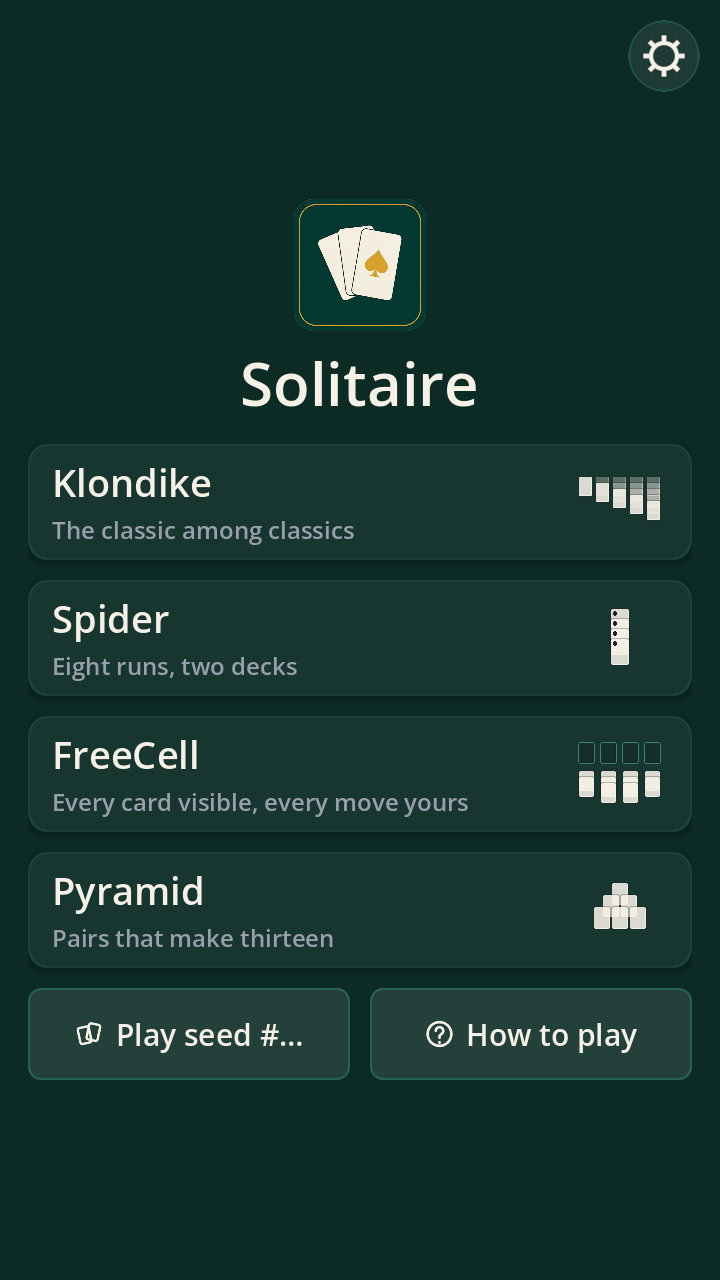
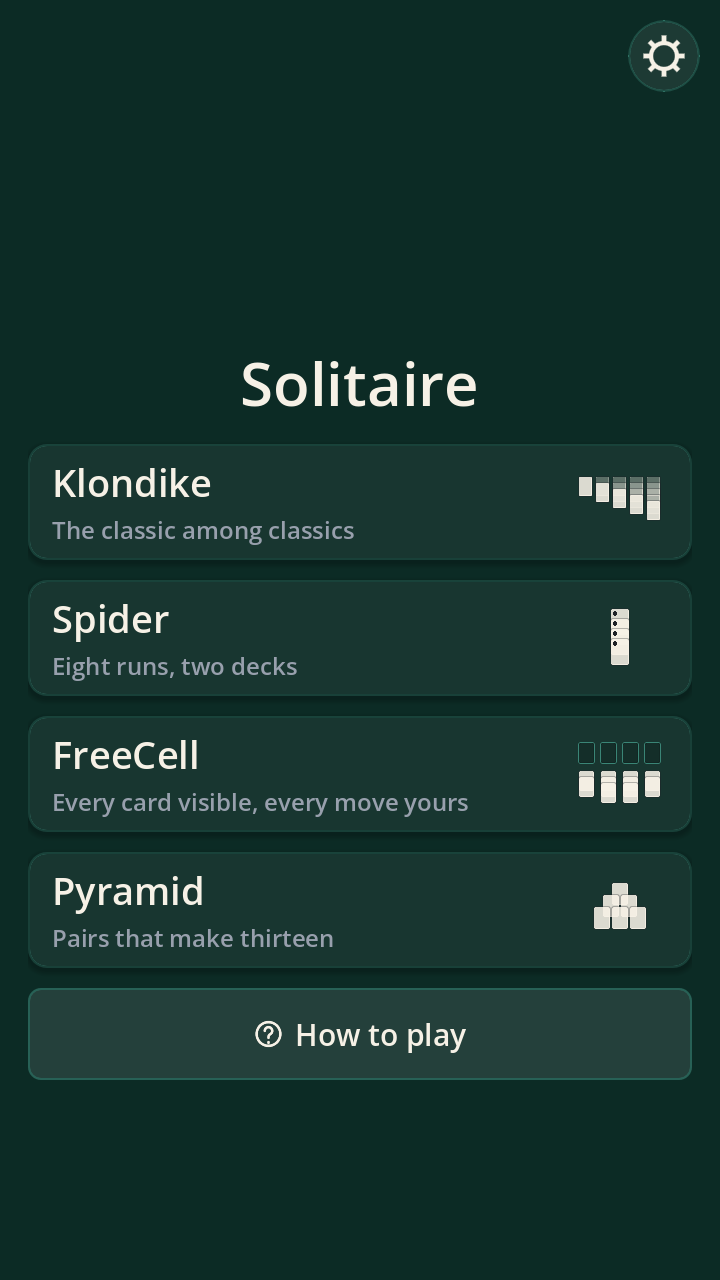
Solitaire: seeds are internal now, so the page stops selling them

diff --git a/solitaire/index.html b/solitaire/index.html
@@ -1,7 +1,7 @@
 ---
 layout: default
 title: "Ygar Solitaire"
-description: "Four classic solitaires on one calm table: Klondike, Spider, FreeCell and Pyramid. Seeded deals you can replay and share, unlimited undo, no ads."
+description: "Four classic solitaires on one calm table: Klondike, Spider, FreeCell and Pyramid. Unlimited undo, a hint that is always fair, no ads."
 sticky_nav: true
 sitemap:
   priority: 0.9
@@ -20,7 +20,7 @@ lang_fr: /fr/solitaire/
     "price": "0",
     "priceCurrency": "EUR"
   },
-  "description": "A minimalist collection of four classic solitaires — Klondike, Spider, FreeCell and Pyramid — on one shared card engine. Every deal has a seed you can replay and share. Unlimited undo, no ads, no account, fully offline.",
+  "description": "A minimalist collection of four classic solitaires — Klondike, Spider, FreeCell and Pyramid — on one shared card engine. No rigged shuffles: any hand can be restarted or replayed exactly. Unlimited undo, no ads, no account, fully offline.",
   "url": "{{ site.url }}{{ site.baseurl }}/solitaire/",
   "downloadUrl": "https://play.google.com/store/apps/details?id=com.ygar.app.solitaire",
   "publisher": {
@@ -60,7 +60,6 @@ lang_fr: /fr/solitaire/
   .sol-ghost { border:1px solid #3E8E7E; color:#8FCDBD; }
   .sol-ghost:hover { background:rgba(62,142,126,.14); }
   .sol-chip { background:rgba(62,142,126,.18); color:#8FCDBD; }
-  .sol-seed { font-family:'Noto Sans',system-ui,sans-serif; letter-spacing:.06em; color:#D4A832; }
 </style>
 
 <div class="sol">
@@ -183,14 +182,22 @@ lang_fr: /fr/solitaire/
     </div>
   </section>
 
-  <!-- SEEDS -->
+  {% comment %}Deals are still reproducible — that is an engine invariant (app SPEC §4) — but as
+     of 2026-09-04 the seed is INTERNAL: the player never sees or types a number, and the three
+     player-facing actions below are the whole vocabulary. Do not put a "#123456" back on this
+     page.{% endcomment %}
+  <!-- FAIR DEALS -->
   <section class="max-w-4xl mx-auto px-6 py-14 rule">
-    <p class="sol-eyebrow text-[11px] uppercase mb-3">{% t solitaire.seed_label %}</p>
-    <h2 class="sol-title text-2xl paper mb-6">{% t solitaire.seed_title %}</h2>
+    <p class="sol-eyebrow text-[11px] uppercase mb-3">{% t solitaire.fair_label %}</p>
+    <h2 class="sol-title text-2xl paper mb-6">{% t solitaire.fair_title %}</h2>
     <div class="sol-bar rounded-xl p-6">
-      <div class="sol-seed text-2xl mb-4">#123456</div>
-      <p class="text-sm muted leading-relaxed mb-3">{% t solitaire.seed_body1 %}</p>
-      <p class="text-sm muted leading-relaxed">{% t solitaire.seed_body2 %}</p>
+      <div class="flex flex-wrap gap-2 mb-4">
+        <span class="sol-chip px-3 py-1.5 rounded text-xs tracking-wide">{% t solitaire.act_new %}</span>
+        <span class="sol-chip px-3 py-1.5 rounded text-xs tracking-wide">{% t solitaire.act_replay %}</span>
+        <span class="sol-chip px-3 py-1.5 rounded text-xs tracking-wide">{% t solitaire.act_restart %}</span>
+      </div>
+      <p class="text-sm muted leading-relaxed mb-3">{% t solitaire.fair_body1 %}</p>
+      <p class="text-sm muted leading-relaxed">{% t solitaire.fair_body2 %}</p>
     </div>
   </section>
 
